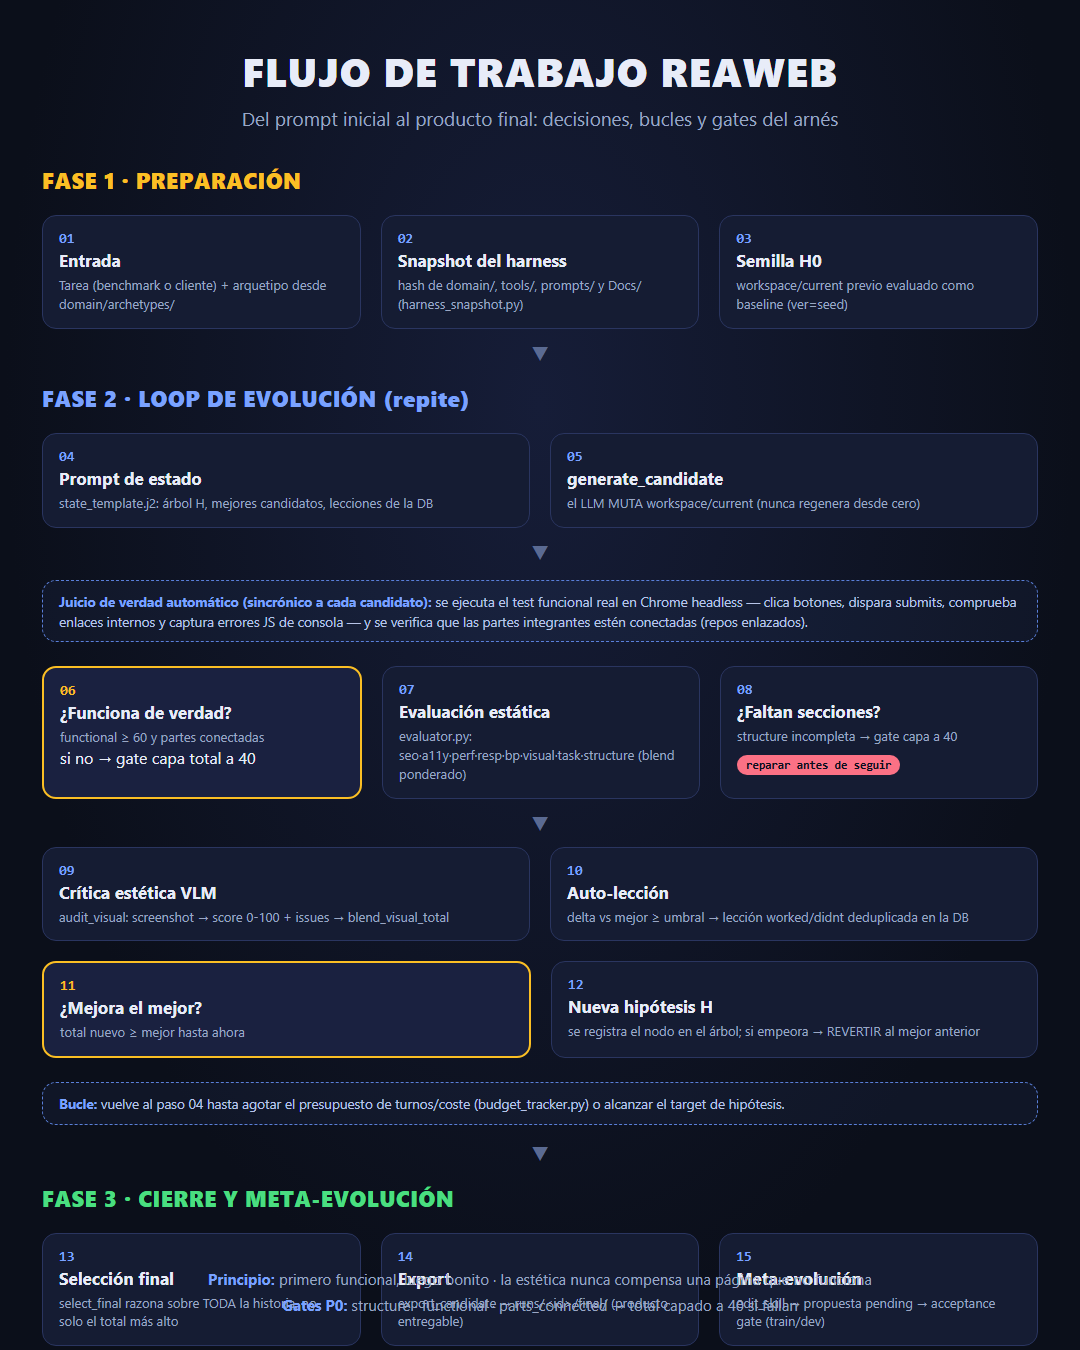
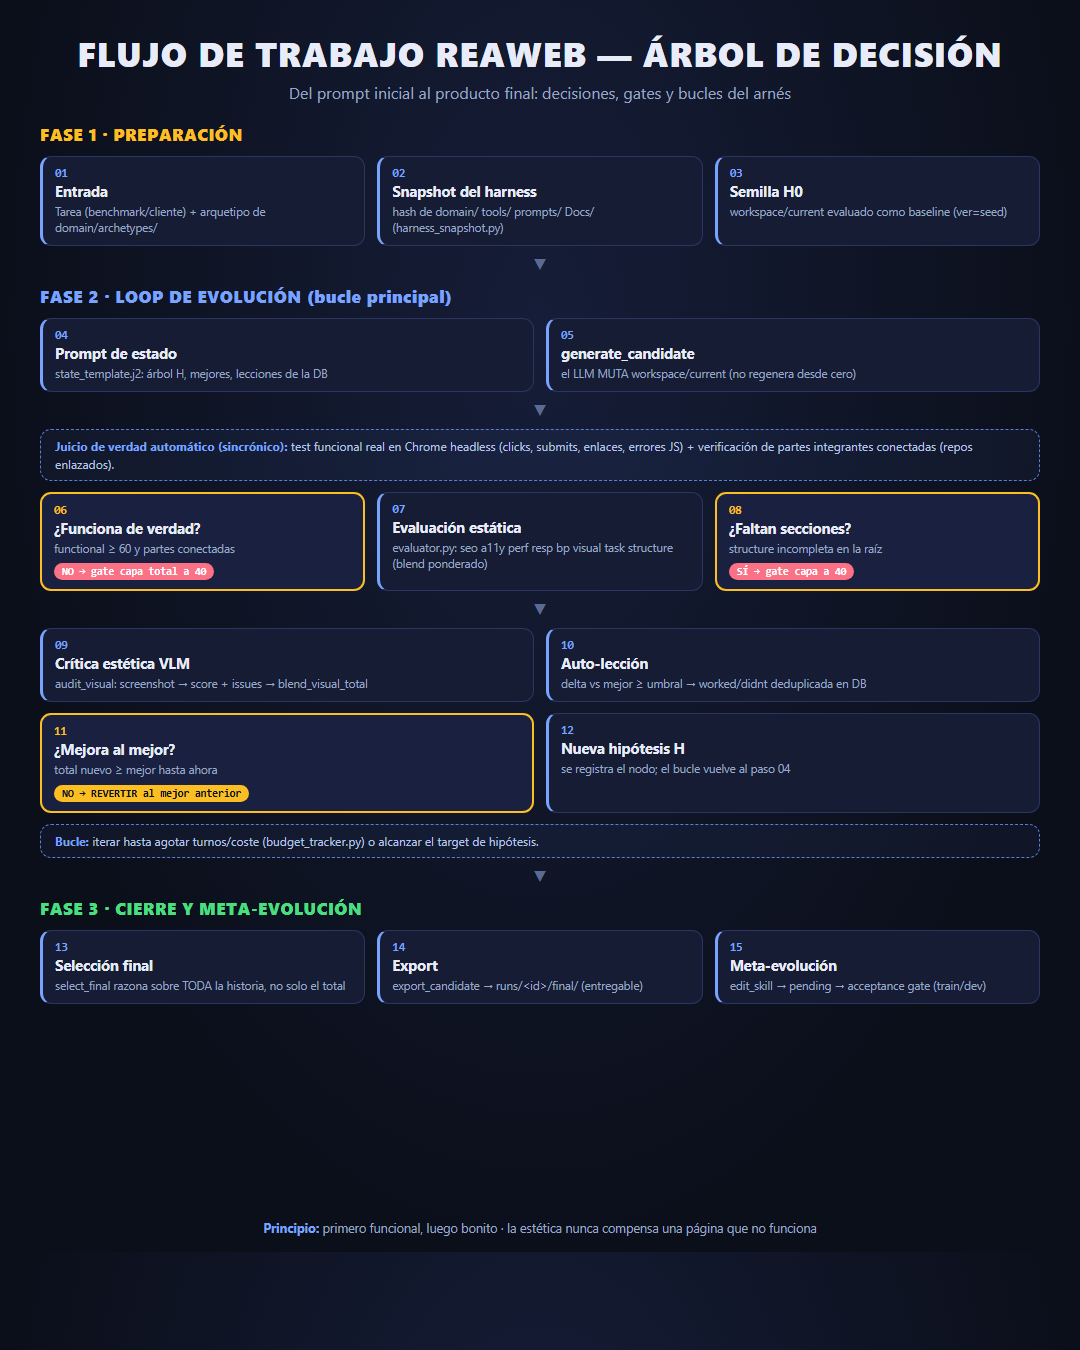
Tarjeta de flujo de trabajo como arbol de decision completo, acoplada al viewport (sin solapes): verificacion automatica VERIFY antes de exportar PNG en gen_cards.py

diff --git a/Docs/cards/card2_src.html b/Docs/cards/card2_src.html
@@ -4,138 +4,161 @@
 <meta charset="utf-8">
 <style>
   * { margin:0; padding:0; box-sizing:border-box; }
-  html,body { width:1080px; height:1350px; overflow:hidden; }
+  html,body { width:1080px; height:1252px; overflow:hidden; }
   body {
     font-family: 'Segoe UI', Arial, sans-serif;
-    background: radial-gradient(ellipse at 50% 30%, #161d38 0%, #0b0f1a 70%);
+    background: radial-gradient(ellipse at 50% 26%, #161d38 0%, #0b0f1a 72%);
     color:#e8ecf8; position:relative;
   }
-  header { text-align:center; padding-top:44px; }
-  header h1 { font-size:40px; font-weight:800; letter-spacing:1px; }
-  header p { font-size:19px; color:#9aa7c4; margin-top:8px; }
+  header { text-align:center; padding-top:30px; }
+  header h1 { font-size:34px; font-weight:800; letter-spacing:1px; }
+  header p { font-size:16px; color:#9aa7c4; margin-top:6px; }
 
-  .wrap { padding:28px 42px 90px; display:flex; flex-direction:column; gap:20px; }
-  .phase { font-size:22px; font-weight:800; margin-top:6px; letter-spacing:0.5px; }
+  .wrap { padding:18px 40px 0; display:flex; flex-direction:column; gap:11px; }
+
+  .phase { font-size:17px; font-weight:800; letter-spacing:.5px; margin-top:2px; }
   .phase.f1 { color:#fbbf24; } .phase.f2 { color:#7aa2ff; } .phase.f3 { color:#4ade80; }
 
-  .row { display:flex; gap:20px; align-items:stretch; }
-  .box {
-    flex:1; background:#151c33; border:1.5px solid #2a3560; border-radius:14px;
-    padding:14px 16px; position:relative; min-width:0;
-  }
-  .box .num { font-family:Consolas,monospace; font-size:14px; font-weight:700; color:#7aa2ff; }
-  .box .ttl { font-size:17px; font-weight:700; margin-top:2px; }
-  .box .dsc { font-size:13px; color:#9aa7c4; margin-top:5px; line-height:1.45; }
-  .box .gate {
-    display:inline-block; margin-top:9px; font-family:Consolas,monospace; font-size:11.5px;
-    color:#0a0f1e; background:#fb7185; padding:3px 9px; border-radius:999px; font-weight:700;
-  }
-  .box .gate.good { background:#4ade80; color:#0a0f1e; }
+  .row { display:flex; gap:12px; align-items:stretch; }
+  .col { display:flex; flex-direction:column; gap:11px; }
 
-  .dec {
-    flex:1; background:#1a2140; border:2px solid #fbbf24; border-radius:14px;
-    padding:14px 16px; min-width:0;
+  .box, .dec, .term {
+    flex:1; border-radius:11px; padding:9px 12px; min-width:0; position:relative;
   }
-  .dec .num { font-family:Consolas,monospace; font-size:14px; font-weight:700; color:#fbbf24; }
-  .dec .ttl { font-size:17px; font-weight:700; margin-top:2px; }
-  .dec .dsc { font-size:13px; color:#9aa7c4; margin-top:5px; line-height:1.45; }
+  .box { background:#151c33; border:1.5px solid #2a3560; border-left:3px solid #7aa2ff; }
+  .dec { background:#1a2140; border:2px solid #fbbf24; }
+  .term { background:#151c33; border:1.5px solid #4ade80; }
 
-  .arrow { text-align:center; color:#5a6a92; font-size:20px; line-height:1; margin:-6px 0; }
+  .num { font-family:Consolas,monospace; font-size:11.5px; font-weight:700; color:#7aa2ff; }
+  .dec .num { color:#fbbf24; }
+  .ttl { font-size:14.5px; font-weight:700; margin-top:1px; }
+  .dsc { font-size:11.5px; color:#9aa7c4; margin-top:3px; line-height:1.4; }
+  .gate {
+    display:inline-block; margin-top:6px; font-family:Consolas,monospace; font-size:10.5px;
+    color:#fff; background:#fb7185; padding:2px 8px; border-radius:999px; font-weight:700;
+  }
+  .gate.good { background:#4ade80; color:#0a0f1e; }
+  .gate.warn { background:#fbbf24; color:#0a0f1e; }
+
+  .arrow { text-align:center; color:#5a6a92; font-size:15px; line-height:1; }
   .loop {
-    margin:4px 0; padding:10px 16px; border:1.5px dashed #5a7fd9; border-radius:14px;
-    background:rgba(90,127,217,0.07); font-size:13.5px; color:#b7c4e8; line-height:1.5;
+    padding:7px 14px; border:1.5px dashed #5a7fd9; border-radius:11px;
+    background:rgba(90,127,217,0.07); font-size:12px; color:#b7c4e8; line-height:1.5;
   }
   .loop b { color:#7aa2ff; }
+
   footer {
-    position:absolute; bottom:32px; left:0; right:0; text-align:center;
-    font-size:15px; color:#9aa7c4; line-height:1.7;
+    position:absolute; bottom:14px; left:0; right:0; text-align:center;
+    font-size:12.5px; color:#9aa7c4; line-height:1.6;
   }
   footer b { color:#7aa2ff; }
 </style>
 </head>
 <body>
 <header>
-  <h1>FLUJO DE TRABAJO REAWEB</h1>
-  <p>Del prompt inicial al producto final: decisiones, bucles y gates del arnés</p>
+  <h1>FLUJO DE TRABAJO REAWEB — ÁRBOL DE DECISIÓN</h1>
+  <p>Del prompt inicial al producto final: decisiones, gates y bucles del arnés</p>
 </header>
 
 <div class="wrap">
 
   <div class="phase f1">FASE 1 · PREPARACIÓN</div>
-
   <div class="row">
     <div class="box"><div class="num">01</div><div class="ttl">Entrada</div>
-      <div class="dsc">Tarea (benchmark o cliente) + arquetipo desde domain/archetypes/</div></div>
+      <div class="dsc">Tarea (benchmark/cliente) + arquetipo de domain/archetypes/</div></div>
     <div class="box"><div class="num">02</div><div class="ttl">Snapshot del harness</div>
-      <div class="dsc">hash de domain/, tools/, prompts/ y Docs/ (harness_snapshot.py)</div></div>
+      <div class="dsc">hash de domain/ tools/ prompts/ Docs/ (harness_snapshot.py)</div></div>
     <div class="box"><div class="num">03</div><div class="ttl">Semilla H0</div>
-      <div class="dsc">workspace/current previo evaluado como baseline (ver=seed)</div></div>
+      <div class="dsc">workspace/current evaluado como baseline (ver=seed)</div></div>
   </div>
 
   <div class="arrow">▼</div>
-  <div class="phase f2">FASE 2 · LOOP DE EVOLUCIÓN (repite)</div>
+  <div class="phase f2">FASE 2 · LOOP DE EVOLUCIÓN (bucle principal)</div>
 
   <div class="row">
     <div class="box"><div class="num">04</div><div class="ttl">Prompt de estado</div>
-      <div class="dsc">state_template.j2: árbol H, mejores candidatos, lecciones de la DB</div></div>
+      <div class="dsc">state_template.j2: árbol H, mejores, lecciones de la DB</div></div>
     <div class="box"><div class="num">05</div><div class="ttl">generate_candidate</div>
-      <div class="dsc">el LLM MUTA workspace/current (nunca regenera desde cero)</div></div>
+      <div class="dsc">el LLM MUTA workspace/current (no regenera desde cero)</div></div>
   </div>
-
   <div class="arrow">▼</div>
 
-  <div class="loop"><b>Juicio de verdad automático (sincrónico a cada candidato):</b>
-    se ejecuta el test funcional real en Chrome headless — clica botones, dispara
-    submits, comprueba enlaces internos y captura errores JS de consola — y se
-    verifica que las partes integrantes estén conectadas (repos enlazados).</div>
+  <div class="loop"><b>Juicio de verdad automático (sincrónico):</b> test funcional
+    real en Chrome headless (clicks, submits, enlaces, errores JS) + verificación de
+    partes integrantes conectadas (repos enlazados).</div>
 
   <div class="row">
     <div class="dec"><div class="num">06</div><div class="ttl">¿Funciona de verdad?</div>
       <div class="dsc">functional ≥ 60 y partes conectadas</div>
-      <div class="gate">si no → gate capa total a 40</div></div>
+      <div class="gate">NO → gate capa total a 40</div></div>
     <div class="box"><div class="num">07</div><div class="ttl">Evaluación estática</div>
-      <div class="dsc">evaluator.py: seo·a11y·perf·resp·bp·visual·task·structure (blend ponderado)</div></div>
-    <div class="box"><div class="num">08</div><div class="ttl">¿Faltan secciones?</div>
-      <div class="dsc">structure incompleta → gate capa a 40</div>
-      <div class="gate">reparar antes de seguir</div></div>
+      <div class="dsc">evaluator.py: seo a11y perf resp bp visual task structure (blend ponderado)</div></div>
+    <div class="dec"><div class="num">08</div><div class="ttl">¿Faltan secciones?</div>
+      <div class="dsc">structure incompleta en la raíz</div>
+      <div class="gate">SÍ → gate capa a 40</div></div>
   </div>
 
   <div class="arrow">▼</div>
 
   <div class="row">
     <div class="box"><div class="num">09</div><div class="ttl">Crítica estética VLM</div>
-      <div class="dsc">audit_visual: screenshot → score 0-100 + issues → blend_visual_total</div></div>
+      <div class="dsc">audit_visual: screenshot → score + issues → blend_visual_total</div></div>
     <div class="box"><div class="num">10</div><div class="ttl">Auto-lección</div>
-      <div class="dsc">delta vs mejor ≥ umbral → lección worked/didnt deduplicada en la DB</div></div>
+      <div class="dsc">delta vs mejor ≥ umbral → worked/didnt deduplicada en DB</div></div>
   </div>
 
   <div class="row">
-    <div class="dec"><div class="num">11</div><div class="ttl">¿Mejora el mejor?</div>
-      <div class="dsc">total nuevo ≥ mejor hasta ahora</div></div>
+    <div class="dec"><div class="num">11</div><div class="ttl">¿Mejora al mejor?</div>
+      <div class="dsc">total nuevo ≥ mejor hasta ahora</div>
+      <div class="gate warn">NO → REVERTIR al mejor anterior</div></div>
     <div class="box"><div class="num">12</div><div class="ttl">Nueva hipótesis H</div>
-      <div class="dsc">se registra el nodo en el árbol; si empeora → REVERTIR al mejor anterior</div></div>
+      <div class="dsc">se registra el nodo; el bucle vuelve al paso 04</div></div>
   </div>
 
-  <div class="loop"><b>Bucle:</b> vuelve al paso 04 hasta agotar el presupuesto de
-    turnos/coste (budget_tracker.py) o alcanzar el target de hipótesis.</div>
+  <div class="loop"><b>Bucle:</b> iterar hasta agotar turnos/coste (budget_tracker.py)
+    o alcanzar el target de hipótesis.</div>
 
   <div class="arrow">▼</div>
   <div class="phase f3">FASE 3 · CIERRE Y META-EVOLUCIÓN</div>
 
   <div class="row">
     <div class="box"><div class="num">13</div><div class="ttl">Selección final</div>
-      <div class="dsc">select_final razona sobre TODA la historia, no solo el total más alto</div></div>
+      <div class="dsc">select_final razona sobre TODA la historia, no solo el total</div></div>
     <div class="box"><div class="num">14</div><div class="ttl">Export</div>
-      <div class="dsc">export_candidate → runs/&lt;id&gt;/final/ (producto entregable)</div></div>
+      <div class="dsc">export_candidate → runs/&lt;id&gt;/final/ (entregable)</div></div>
     <div class="box"><div class="num">15</div><div class="ttl">Meta-evolución</div>
-      <div class="dsc">edit_skill → propuesta pending → acceptance gate (train/dev)</div></div>
+      <div class="dsc">edit_skill → pending → acceptance gate (train/dev)</div></div>
   </div>
 
 </div>
 
 <footer>
-  <b>Principio:</b> primero funcional, luego bonito · la estética nunca compensa una página que no funciona<br>
-  <b>Gates P0:</b> structure · functional · parts_connected → total capado a 40 si fallan
+  <b>Principio:</b> primero funcional, luego bonito · la estética nunca compensa una página que no funciona
 </footer>
+
+<script>
+  // VERIFICACIÓN AUTOMÁTICA ANTES DE EXPORTAR:
+  // reporta en document.title si algún elemento sale del viewport o si las
+  // filas se solapan. El runner PNG fallará si no pasa.
+  window.addEventListener('load', function(){
+    var issues = [];
+    var H = document.body.clientHeight, W = document.body.clientWidth;
+    var rows = document.querySelectorAll('.row, .loop, .phase, footer');
+    rows.forEach(function(r){
+      var b = r.getBoundingClientRect();
+      if (b.left < 0 || b.right > W + 0.5 || b.top < 0 || b.bottom > H + 0.5) {
+        issues.push((r.className || r.tagName).slice(0,20) + ' fuera(' + Math.round(b.top) + ',' + Math.round(b.bottom) + ')');
+      }
+    });
+    var rws = Array.prototype.slice.call(document.querySelectorAll('.row'));
+    for (var i = 1; i < rws.length; i++) {
+      var a = rws[i-1].getBoundingClientRect(), b = rws[i].getBoundingClientRect();
+      if (b.top < a.bottom - 1) issues.push('row' + i + '/' + (i+1) + ' solapa');
+    }
+    var sh = document.documentElement.scrollHeight;
+    if (sh > H + 1) issues.push('scrollHeight=' + sh + '>' + H);
+    document.title = 'VERIFY:' + (issues.length ? issues.join(';') : 'OK') + '|sh=' + sh + '|H=' + H;
+  });
+</script>
 </body>
 </html>

diff --git a/Docs/cards/card1_src.html b/Docs/cards/card1_src.html
@@ -129,5 +129,39 @@
   Cada <b>generate_candidate</b> muta workspace/current y se registra como hipótesis H<br>
   ReaWeb · harness de evolución web con juicio de verdad por datasets
 </footer>
+
+<script>
+  // VERIFICACIÓN AUTOMÁTICA ANTES DE EXPORTAR
+  window.addEventListener('load', function(){
+    var issues = [];
+    var H = document.body.clientHeight, W = document.body.clientWidth;
+    var all = document.querySelectorAll('.chip');
+    var boxes = [];
+    all.forEach(function(c, i){
+      var b = c.getBoundingClientRect();
+      if (b.left < 0 || b.right > W + 0.5 || b.top < 0 || b.bottom > H + 0.5) {
+        issues.push('chip' + i + ' fuera');
+      }
+      boxes.push({b: b, i: i});
+    });
+    for (var i = 0; i < boxes.length; i++) {
+      for (var j = i + 1; j < boxes.length; j++) {
+        var a = boxes[i].b, b = boxes[j].b;
+        if (!(a.right <= b.left || b.right <= a.left || a.bottom <= b.top || b.bottom <= a.top)) {
+          issues.push('chip' + boxes[i].i + '/' + boxes[j].i + ' solapa');
+        }
+      }
+    }
+    // chips vs ojo (radio del ojo ~ 150px, centro ~ (540,702))
+    boxes.forEach(function(x){
+      var mx = (x.b.left + x.b.right) / 2, my = (x.b.top + x.b.bottom) / 2;
+      var d = Math.hypot(mx - 540, my - 702);
+      if (d < 165) issues.push('chip' + x.i + ' sobre ojo');
+    });
+    var sh = document.documentElement.scrollHeight;
+    if (sh > H + 1) issues.push('scrollHeight=' + sh + '>' + H);
+    document.title = 'VERIFY:' + (issues.length ? issues.join(';') : 'OK') + '|sh=' + sh;
+  });
+</script>
 </body>
 </html>

diff --git a/scripts/gen_cards.py b/scripts/gen_cards.py
@@ -26,6 +26,34 @@ _SOURCES = {
 }
 
 
+def verify_layout(src: Path, size: str = "1080,1350") -> tuple[bool, str]:
+    """Reabre la fuente en Chrome headless y comprueba que el script VERIFY:
+    embebido reporte OK (sin solapamientos, sin elementos fuera del viewport,
+    sin overflow). Retorna (ok, mensaje)."""
+    chrome = find_chrome()
+    if not chrome:
+        return False, "chrome no disponible"
+    try:
+        if Path("/usr/bin/wslpath").exists():
+            win = lambda p: subprocess.run(["wslpath", "-w", str(p)],
+                                           capture_output=True, text=True).stdout.strip()
+        else:
+            win = lambda p: str(p).replace("/mnt/c/", "C:\\").replace("/", "\\")
+        cmd = [chrome, "--headless=new", "--disable-gpu",
+               f"--window-size={size}", "--dump-dom", "file://" + win(src)]
+        out = subprocess.run(cmd, capture_output=True, timeout=90)
+        dom = out.stdout.decode("utf-8", errors="replace")
+        m = None
+        for m in __import__("re").finditer(r"<title>VERIFY:([^<]*)</title>", dom):
+            pass
+        if not m:
+            return False, "sin reporte VERIFY en el DOM"
+        msg = m.group(1)
+        return msg.startswith("OK"), msg
+    except Exception as e:
+        return False, str(e)
+
+
 def render_src_to_png(src: Path, png: Path) -> bool:
     chrome = find_chrome()
     if not chrome:
@@ -57,6 +85,12 @@ def main():
         if not src.exists():
             print(f"[skip] fuente ausente: {src}")
             continue
+        vok, vmsg = verify_layout(src)
+        if not vok:
+            ok = False
+            print(f"[VERIFY FAIL] {png_name}: {vmsg}")
+            continue
+        print(f"[verify] {png_name}: {vmsg}")
         if render_src_to_png(src, png):
             print(f"[ok] {png.name} ({png.stat().st_size//1024} KB)")
         else:

diff --git a/Docs/cards/README.md b/Docs/cards/README.md
@@ -38,5 +38,20 @@ juicio de verdad por datasets) y la meta-evolución con acceptance gate.
 ## Regenerar o editar
 
 - Edita `card1_src.html` / `card2_src.html` (HTML/CSS con flujo de texto).
-- Regenera el PNG con Chrome headless:
-  `chrome --headless=new --window-size=1080,1350 --screenshot=<salida>.png file://<fuente>.html`
+- `python -m scripts.gen_cards` **verifica el layout antes de exportar**: cada
+  fuente incluye un script `VERIFY` que comprueba en Chrome headless que ningún
+  elemento se sale del viewport, que las filas/tarjetas no se solapan y que no
+  hay overflow vertical. Solo si reporta `OK` se genera el PNG.
+
+## Árbol de decisión (tarjeta 2)
+
+La tarjeta 2 representa el flujo como árbol de decisión completo:
+
+- **Fase 1 · Preparación**: entrada + snapshot + semilla H0.
+- **Fase 2 · Loop de evolución**: generate_candidate → juicio de verdad
+  automático (test funcional + partes conectadas) → decisión "¿funciona de
+  verdad?" → evaluación estática → decisión "¿faltan secciones?" → crítica VLM
+  → auto-lección → decisión "¿mejora al mejor?" (si no, REVERTIR) → nueva
+  hipótesis H → bucle.
+- **Fase 3 · Cierre**: selección final (razona sobre toda la historia) → export
+  → meta-evolución con acceptance gate.
